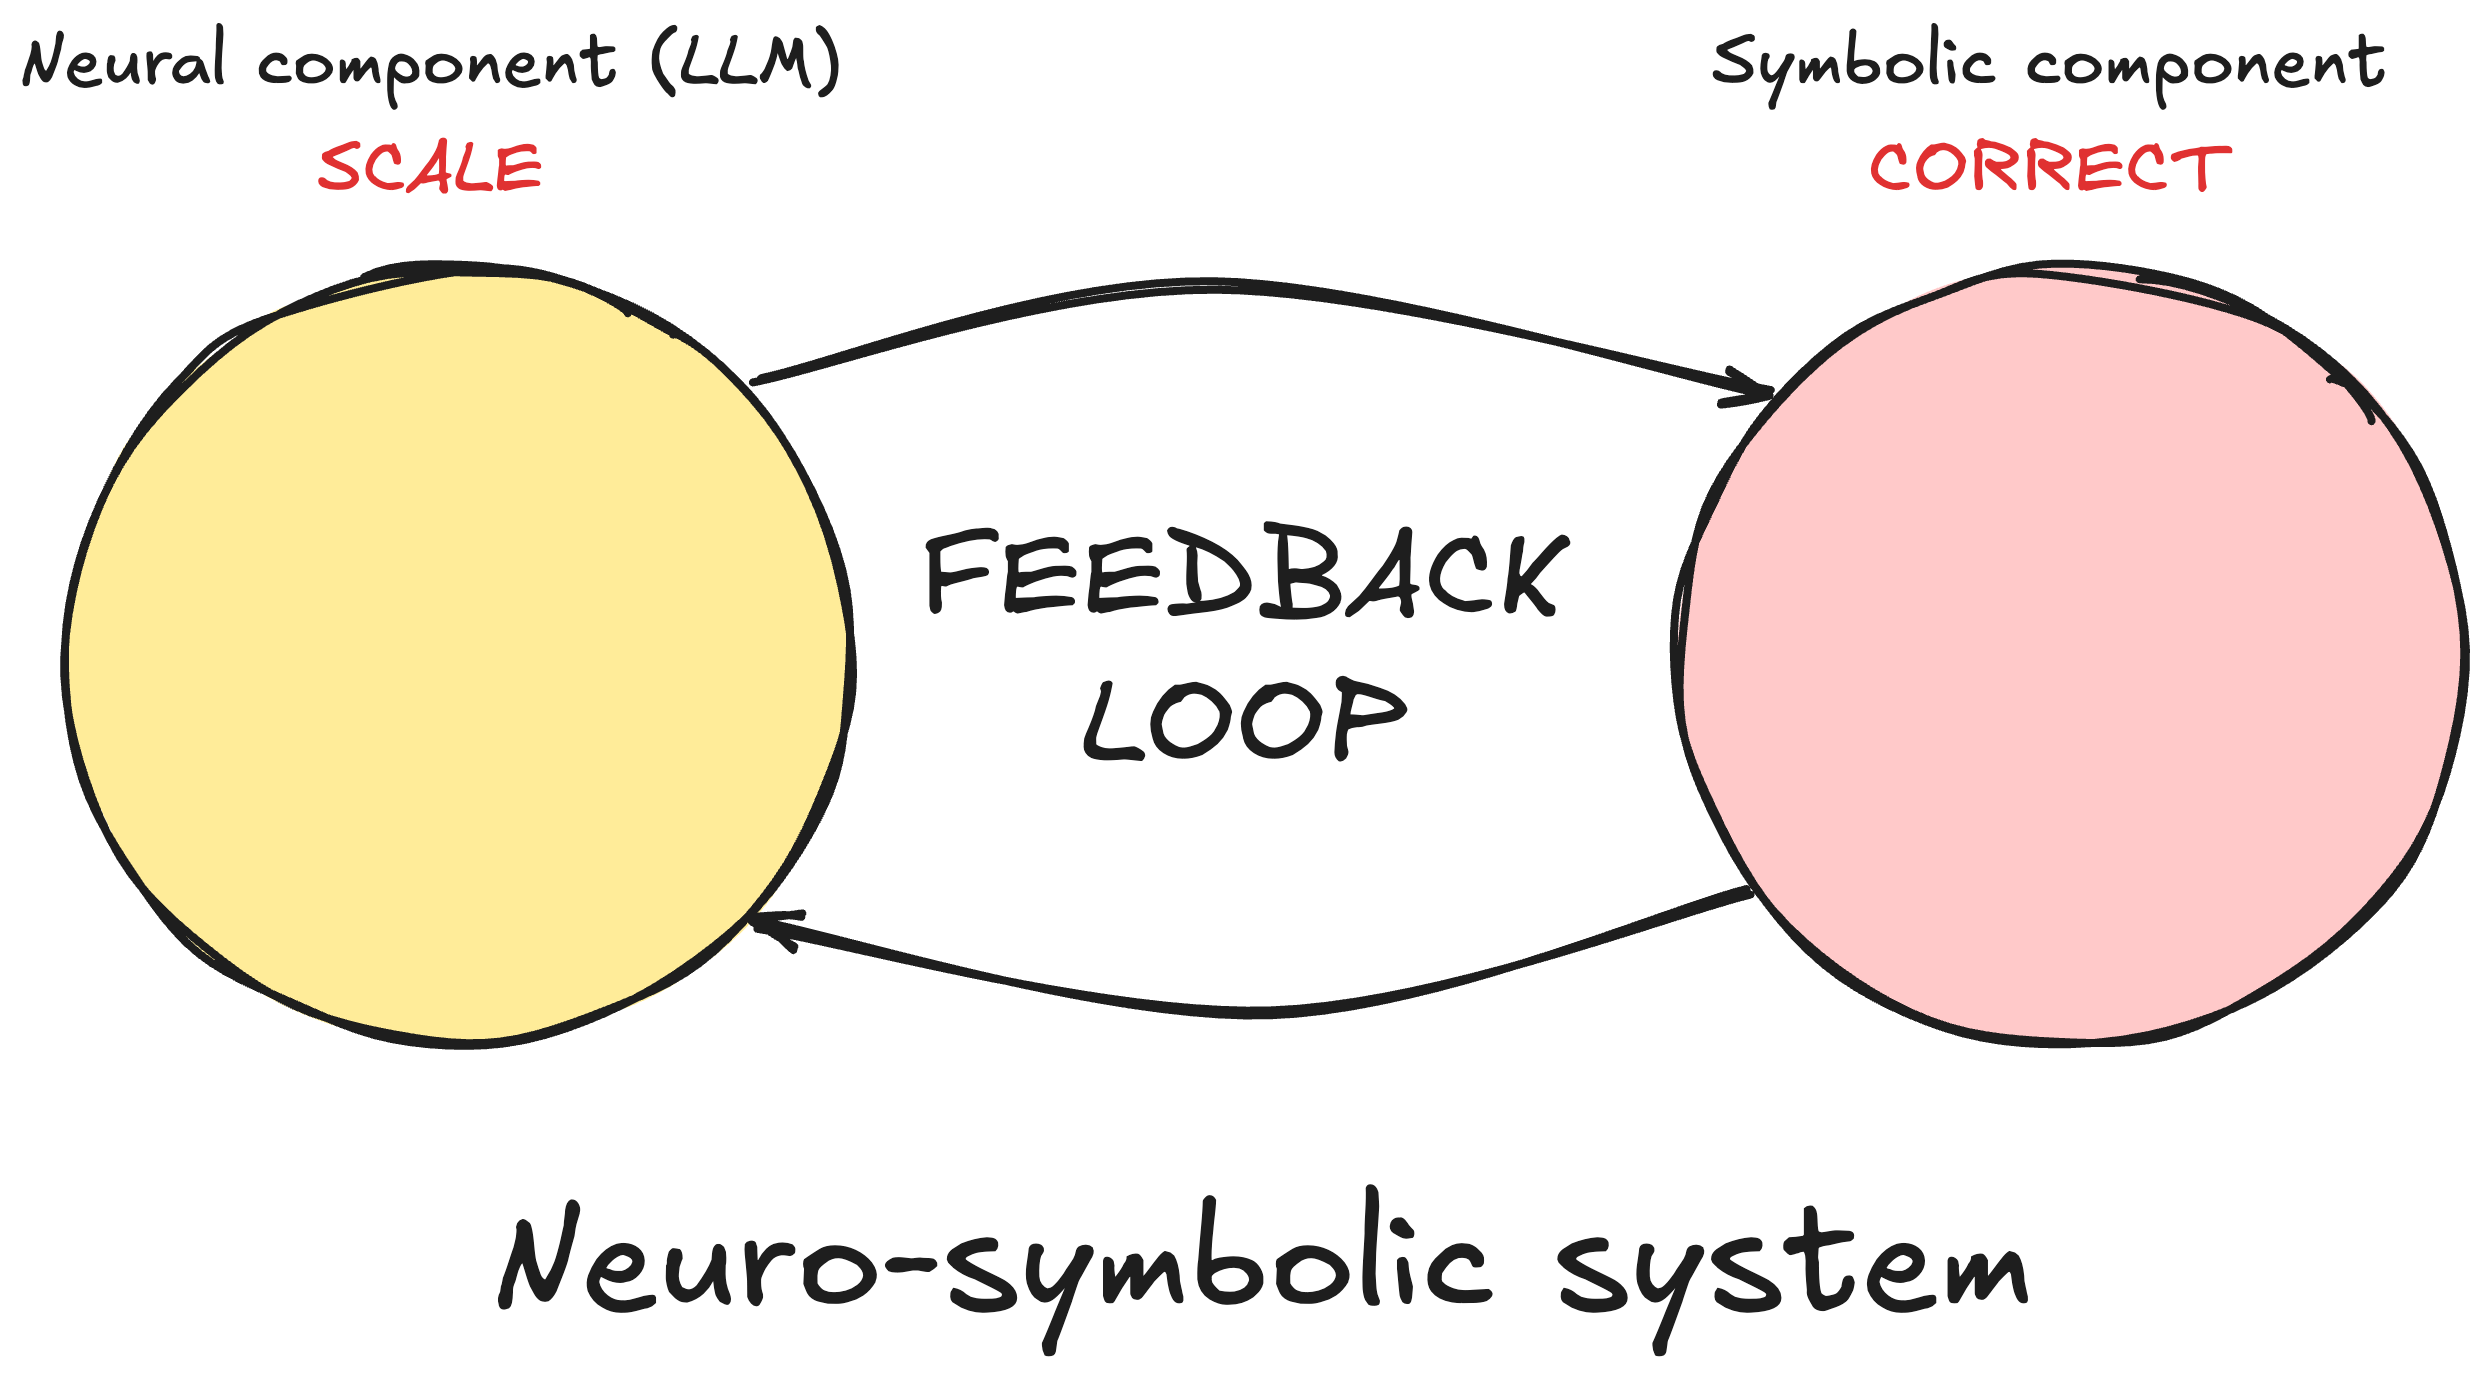
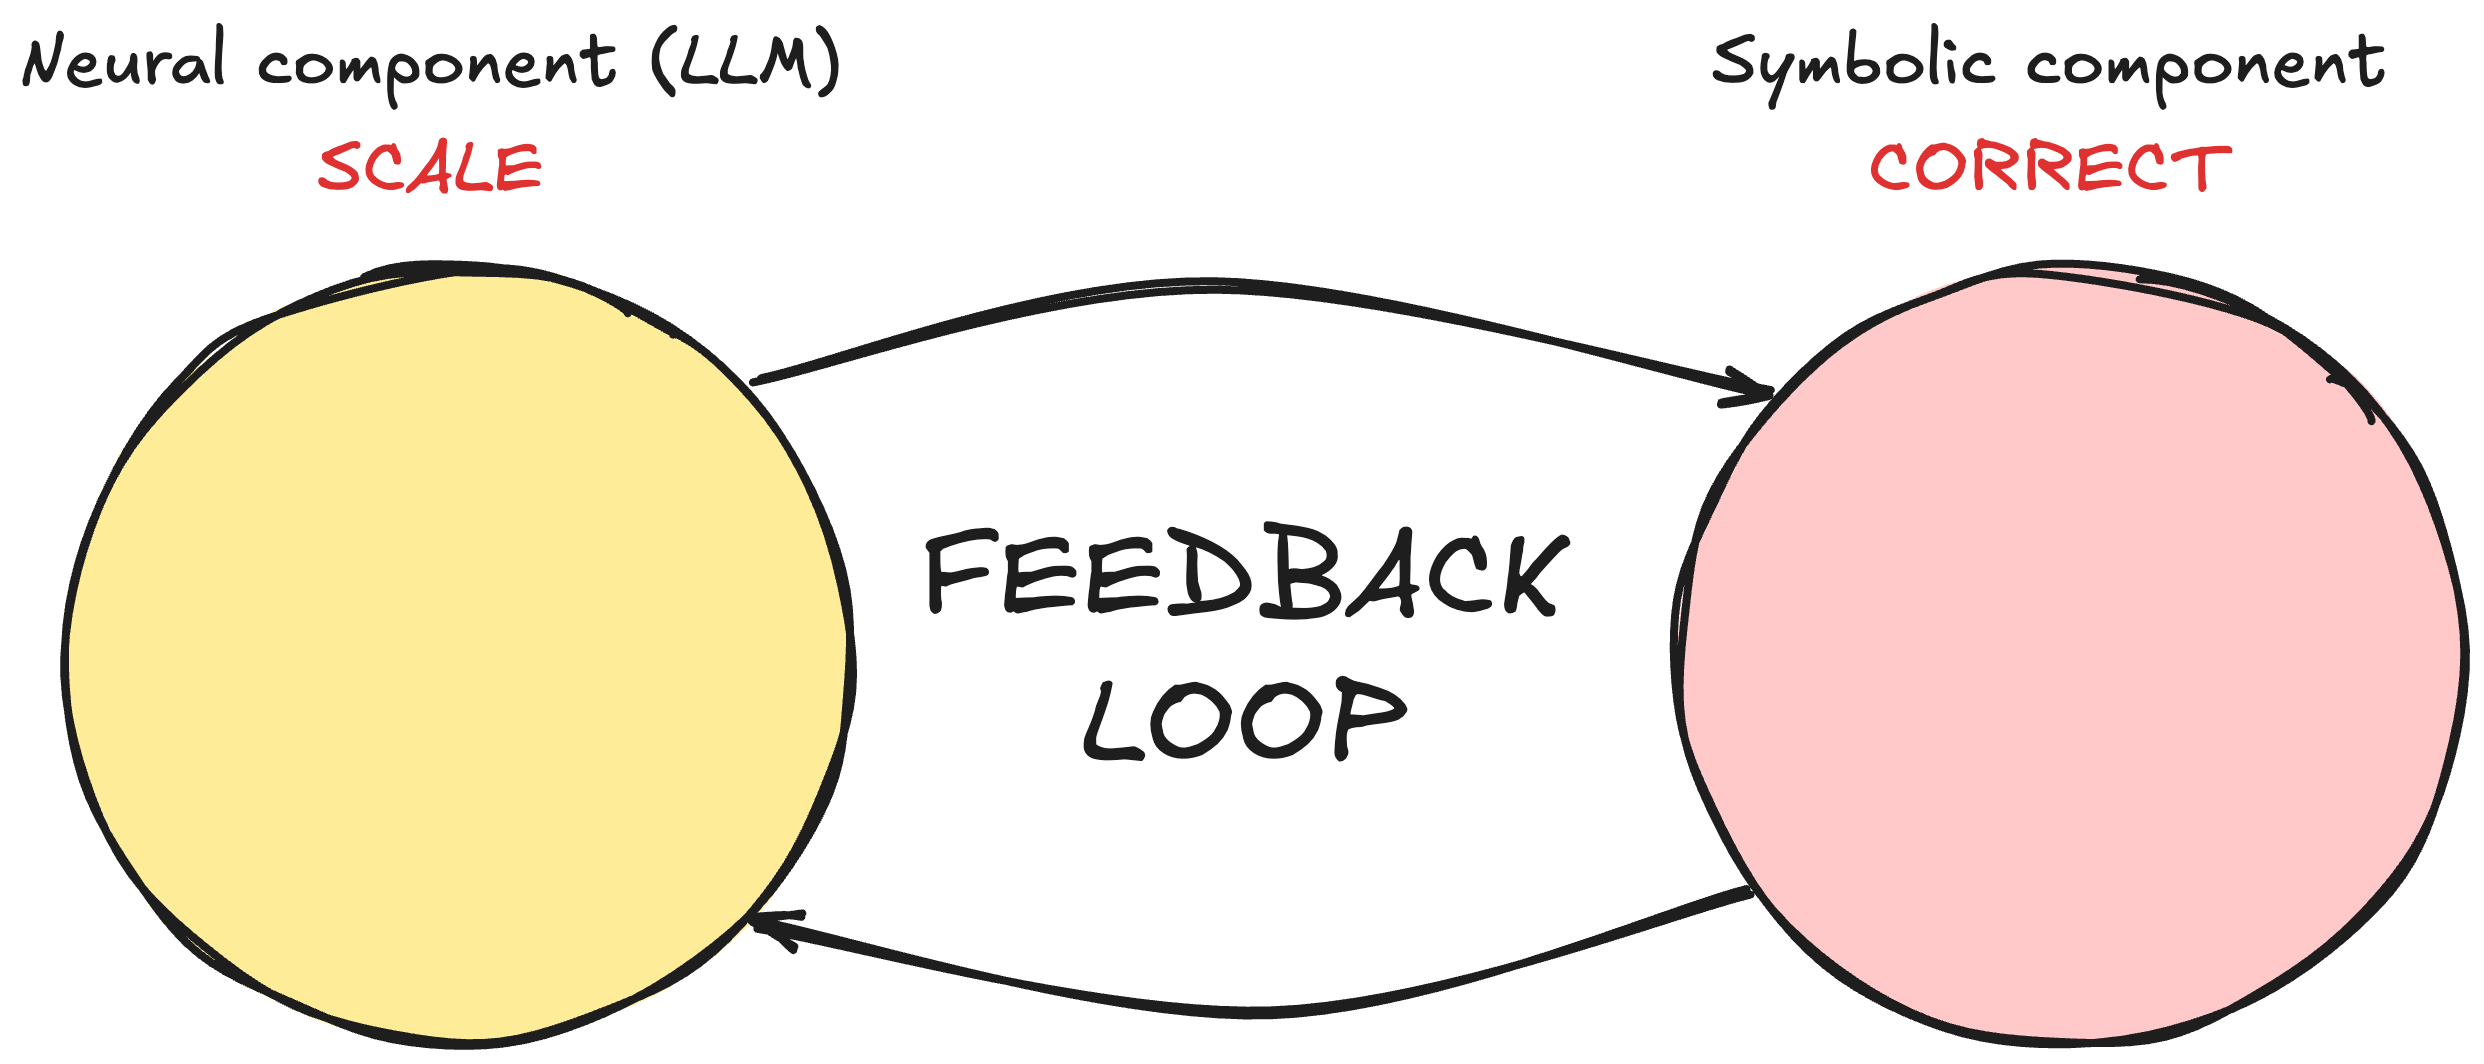
Changed one example

Changed region(s): [[0.0, 0.031, 1.0, 0.9925], [0.372, 0.3722, 0.651, 0.4652], [0.403, 0.6203, 0.589, 0.7444]]

diff --git a/index.html b/index.html
@@ -55,8 +55,8 @@
                     <center><img src="img/reactive-synthesis.png" width="100%"></center>
                 </div>
                 <div>
-                    <div class="box blue small" data-label="Cybersecurity">
-                    Detect security vulnerabilities in code.
+                    <div class="box blue small" data-label="Finance">
+                    Find compliance rules for transactions. 
                     </div>
                     <br/>
                     <br/>
@@ -97,31 +97,13 @@
 
     </div>
 
-    <!-- <div id="scalable-correct" class="step" data-x="1500" data-y="1500">
-        <div class="box red" data-label="The two worlds">
-            <ul>
-            <li><red>Symbolic methods</red> (logic) are <green>correct</green>: they guarantee that the synthesized program satisfies the specification. Critical <b>scaling</b> issues!</li>
-            <li><blue>Neural methods</blue> (deep learning, large language models) are <mauve>scalable</mauve>: they can handle large and complex specifications. Critical <b>correctness</b> issues!</li>
-            </ul>
-        </div>
-
-        <div class="slide_step">
-            <h3>We need both <green>correct</green> and <mauve>scalable</mauve>: <br/><b>neuro-symbolic methods</b>!</h3>
-        </div>
-
-        <br/>
-        <div class="slide_step small">
-            Related recent aspect (e.g. Navier-Stokes results): enormous <b>compute budget</b>.
-        </div>
-    </div> -->
-
     <div id="overview_intermediate" class="step unclickable" data-x="1500" data-y="900" data-scale="3">
     </div>
 
 <!-- Part 2: Reactive synthesis -->
-    <div class="part" data-x="1500" data-y="400">
+    <div class="part" data-x="1500" data-y="300">
 
-        <div id="reactive-synthesis" class="step" data-fixed="1" data-x="0" data-y="0" data-scale=".8">
+        <div id="reactive-synthesis" class="step unclickable" data-fixed="1" data-x="0" data-y="0" data-scale=".8">
             <h2>Reactive synthesis</h2>
         </div>
 
@@ -155,20 +137,6 @@
             </div>
         </div>
 
-        <!-- <div id="reactive-synthesis-open-problems" class="step" data-x="200" data-y="500" data-scale=".5">
-            <h3>Understanding the landscape</h3>
-
-            <br/>
-            Different orthogonal directions:
-            <ul>
-                <li>Complexity of the specification.</li>
-                <li>Full or partial information of the system.</li>
-                <li>Average versus worse-case scenarios (stochastic or adversarial).</li>
-            </ul>
-            <br/>
-            This yields different game models, extending each other.
-        </div> -->
-
         <div id="reactive-synthesis-parity-games" class="step" data-x="-250" data-y="500" data-scale=".5">
             <div class="box red small" data-label="Open problem">
             Since 1991: complexity of solving parity games <red>(= reactive synthesis with complex specifications)</red>. Quasipolynomial barrier for <green>discrete</green> algorithms (SODA 2019).
@@ -201,7 +169,7 @@
             </div>
             <br/>
             <div class="box green slide_step small" data-label="Impact">
-                <b>Many applications</b>: aircraft collision avoidance, autonomous driving, robot navigation, infrastructure inspection and maintenance...
+                Aircraft collision avoidance, autonomous driving, robot navigation, infrastructure inspection and maintenance...
             </div>
         </div>
 
@@ -223,15 +191,19 @@
     </div>
 
 <!-- Part 3: Logic synthesis -->
-    <div class="part" data-x="2400" data-y="400">
+    <div class="part" data-x="2400" data-y="300">
 
-        <div id="logic-synthesis" class="step" data-fixed="1" data-x="0" data-y="0" data-scale=".8">
+        <div id="logic-synthesis" class="step unclickable" data-fixed="1" data-x="0" data-y="0" data-scale=".8">
             <h2>Logic synthesis</h2>
         </div>
 
         <div id="logic-synthesis-def" class="step" data-x="-200" data-y="200" data-scale=".5">
             <div class="row">
-                <img src="img/logic-synthesis.png" width="50%"/>
+                <div>
+                    <img src="img/logic-synthesis.png"/>
+                    Solves a binary classification task from machine learning.
+                    <br/><br/>But logical formulas are <red>interpretable</red>, <blue>composable</blue>, <green>verifiable</green>.
+                </div>
                 <div>
                     <img src="img/classification.png">
                 </div>
@@ -244,7 +216,7 @@
             <div class="row">
                 <ul>
                     <li>Logic synthesis is a <blue>combinatorial search problem</blue>: we need to explore the very large space of logical formulas.</li>
-                    <li>Combinatorial search problems are "<green>embarassingly parallel</green>": search branches are independent of each other.</li>
+                    <li>Combinatorial search problems are naturally <green>parallel</green>: search branches are independent of each other.</li>
                 </ul>
                 <div>
                     <img src="img/search.png" width="50%">
@@ -263,7 +235,7 @@
         </div>
 
         <div id="logic-synthesis-challenges" class="step" data-x="-200" data-y="500" data-scale=".5">
-            We obtained significant improvements using GPU acceleration in <b>simple</b> logic synthesis domains (CAV 2024, TACAS 2026, NeurIPS 2026).
+            We obtained significant improvements using GPU acceleration in <blue>simple</blue> logic synthesis domains (CAV 2024, TACAS 2026, NeurIPS 2026).
             <br/>            
             <br/>            
             LOGOS targets <red>three new directions</red>:
@@ -300,10 +272,20 @@
     <div id="overview_intermediate" class="step unclickable" data-x="1500" data-y="900" data-scale="3">
     </div>
 
-    <div id="final" class="step" data-x="2000" data-y="1400">  
-        <img src="img/final_generated.jpeg" width="90%">
-        <red>Reactive synthesis</red> controls the feedback loop.
-        <br/><blue>Logic synthesis</blue> builds the symbolic component.
+    <div id="neuro-symbolic-title" class="step unclickable" data-fixed="1" data-x="2000" data-y="1100" data-scale=".8">
+        <h2>Neuro-symbolic synthesis</h2>
+    </div>
+
+    <div id="final" class="step" data-x="2000" data-y="1450">  
+        <img src="img/final_generated.png" width="90%">
+
+        <div class="step_slide">
+            Synergy between the three pillars:
+            <ul>
+                <li><red>Reactive synthesis</red>: feedback loop.</li>
+                <li><blue>Logic synthesis</blue>: symbolic component.</li>
+            </ul>
+        </div>
     </div>
     
     <!-- Backup slides: not part of the normal flow (data-fixed="1", so
@@ -480,9 +462,9 @@
 </div>
 
 <div id="backup-links">
-    <a href="#budget">Budget</a>
     <a href="#gantt">Timeline, hires &amp; milestones</a>
     <a href="#cv">Why me?</a>
+    <a href="#budget">Budget</a>
     <a href="#arc">ARC</a>
 </div>
 
